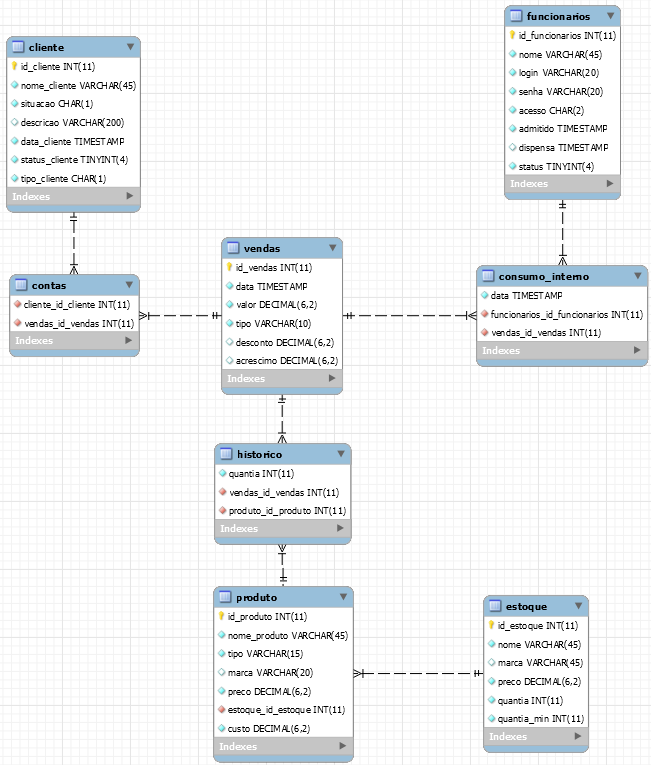
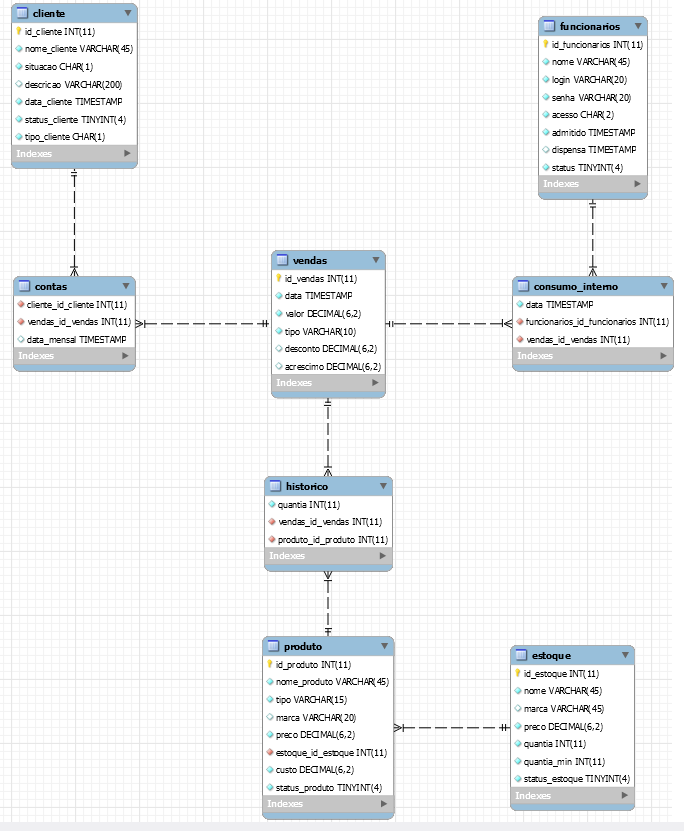
Banco - Produto e Estoque
Adicionado os campos para desativar  um produto e um item do estoque.

diff --git a/model/cliente/cliente.PDO.php b/model/cliente/cliente.PDO.php
@@ -36,10 +36,10 @@ class Table_Cliente extends Banco implements iTable_Cliente
                 VALUES(?, ?, ?, ?)");
                 $sql->execute(array($Cliente->getNome(), $Cliente->getSituacao(),  $Cliente->getDescricao(), $Cliente->getTipo()));
             } else {
-                return "Usuário já existe";
+                return "Usuário já existe"; //false
             }
         } else {
-            return "Existem erros nos dados, digite novamente";
+            return "Existem erros nos dados, digite novamente"; //false
         }
         $bd->desconectar();
     }
@@ -125,7 +125,7 @@ class Table_Cliente extends Banco implements iTable_Cliente
                 <th>Nome</th>
                 <th>Situação</th>
                 <th>Descrição</th>
-                <th></th>
+                <th>tipo</th>
             </tr>
         ";
         foreach ($dados as $l) {
